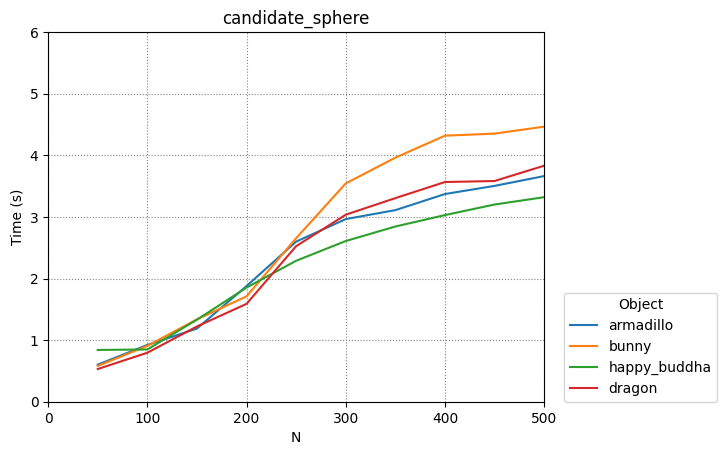
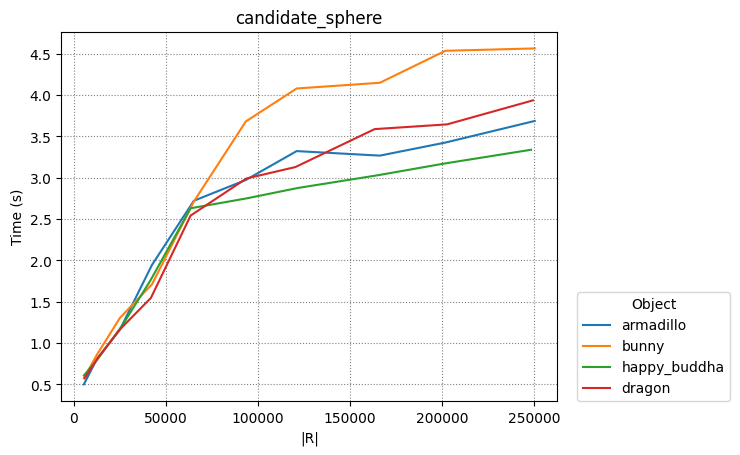
Use |R| as x-axis

diff --git a/analysis/time.py b/analysis/time.py
@@ -10,50 +10,54 @@ matplotlib.use('Agg')
 
 DIR_PATH = 'analysis/data/time'
 
-def compute_values(algorithm: type[Algorithm]) -> tuple[list[str], list[int], list[list[float]]]:
+def compute_values(algorithm: type[Algorithm]) -> tuple[list[str], list[list[int]], list[list[float]]]:
     times = []
+    R_values = []
 
     # Warm up
     algorithm.surface_reconstruction(OBJECT_NAMES[0], 100)
 
     for i in range(len(OBJECT_NAMES)):
         print(OBJECT_NAMES[i])
-        result = algorithm.time(OBJECT_NAMES[i], N_VALUES)
-        times.append(result)
+        t, R = algorithm.time(OBJECT_NAMES[i], N_VALUES)
+        times.append(t)
+        R_values.append(R)
 
-    return OBJECT_NAMES, N_VALUES, times
+    return OBJECT_NAMES, R_values, times
 
-def save_results(object_names: list[str], N_values: list[int], times: list[list[float]], algorithm: str) -> None:
+def save_results(object_names: list[str], R_values: list[list[int]], times: list[list[float]], algorithm: str) -> None:
     with open(f'{DIR_PATH}_{algorithm}.csv', mode='w', newline='') as file:
         writer = csv.writer(file)
 
         writer.writerow(object_names)
-        writer.writerow(N_values)
+        writer.writerow([len(R_values)])
+        
+        for entry in R_values:
+            writer.writerow(entry)
 
         for entry in times:
             writer.writerow(entry)
 
-def load_results(algorithm: str) -> tuple[list[str], list[int], list[list[float]]]:
+def load_results(algorithm: str) -> tuple[list[str], list[list[int]], list[list[float]]]:
     with open(f'{DIR_PATH}_{algorithm}.csv', mode='r') as file:
         reader = csv.reader(file)
         rows = list(reader)
 
         object_names = rows[0]
-        N_values = [int(value) for value in rows[1]]
-        times = [[float(value) for value in row] for row in rows[2:]]
+        length = int(rows[1][0])
+        R_values = [[int(value) for value in row] for row in rows[2:2+length]]
+        times = [[float(value) for value in row] for row in rows[2+length:]]
     
-    return object_names, N_values, times
+    return object_names, R_values, times
 
-def plot_results(object_names: list[str], N_values: list[int], times: list[list[float]], algorithm: str) -> None:
+def plot_results(object_names: list[str], R_values: list[list[int]], times: list[list[float]], algorithm: str) -> None:
     fig, ax = plt.subplots()
 
     for i, entry in enumerate(times):
-        ax.plot(N_values, entry, label=f'{object_names[i]}')
+        ax.plot(R_values[i], entry, label=f'{object_names[i]}')
     
     ax.set_ylabel('Time (s)')
-    ax.set_xlim([0, N_values[-1]])
-    ax.set_ylim([0, 6])
-    ax.set_xlabel('N')
+    ax.set_xlabel('|R|')
     ax.set_title(algorithm)
     ax.legend(loc=(1.04, 0), title='Object')
     plt.grid(linestyle='dotted', color='grey')

diff --git a/ray_field/candidate_sphere.py b/ray_field/candidate_sphere.py
@@ -111,22 +111,26 @@ class CandidateSphere(Algorithm):
 
         return distances
 
-    def time(model_name: CheckpointName, N_values: list[int]) -> list[float]:
+    def time(model_name: CheckpointName, N_values: list[int]) -> tuple[list[float], list[int]]:
         model, device = utils.init_model(model_name)
 
         times = np.zeros(len(N_values))
+        R_values = np.zeros(len(N_values))
 
         with torch.no_grad():
             for i in range(len(N_values)):
                 N = N_values[i]
                 print(N, end='\t')
 
-                for _ in range(CandidateSphere.time_samples):
+                for j in range(CandidateSphere.time_samples):
                     torch.cuda.synchronize()
                     start_time = timer()
 
                     origins, dirs = utils.generate_sphere_rays_tensor(CandidateSphere.prescan_n, device)
                     intersections, atom_indices = CandidateSphere._broad_scan(model, origins, dirs)
+
+                    if j == 0:
+                        R_values[i] = dirs.shape[0] * dirs.shape[2]
 
                     radii, centers = CandidateSphere._generate_candidate_spheres(intersections, atom_indices, device)
                     origins, dirs = CandidateSphere._generate_candidate_rays(radii, centers, N, device)
@@ -136,6 +140,9 @@ class CandidateSphere(Algorithm):
                     
                     torch.cuda.synchronize()
                     time = timer() - start_time
+
+                    if j == 0:
+                        R_values[i] = R_values[i] + (dirs.shape[0] * dirs.shape[2])
 
                     times[i] = times[i] + time
                     print(f'{time:.5f}', end='\t')
@@ -147,7 +154,9 @@ class CandidateSphere(Algorithm):
         del model
         torch.cuda.empty_cache()
 
-        return times / CandidateSphere.time_samples
+        times = times / CandidateSphere.time_samples
+
+        return times, R_values
 
     def time_steps(model_name: CheckpointName, N_values: list[int]) -> list[list[float]]:
         """Measure execution time of the surface reconstruction divided in

diff --git a/ray_field/prescan_cone.py b/ray_field/prescan_cone.py
@@ -109,22 +109,26 @@ class PrescanCone(Algorithm):
 
         return distances
 
-    def time(model_name: CheckpointName, N_values: list[int]) -> list[float]:
+    def time(model_name: CheckpointName, N_values: list[int]) -> tuple[list[float], list[int]]:
         model, device = utils.init_model(model_name)
 
         times = np.zeros(len(N_values))
+        R_values = np.zeros(len(N_values))
 
         with torch.no_grad():
             for i in range(len(N_values)):
                 N = N_values[i]
                 print(N, end='\t')
 
-                for _ in range(PrescanCone.time_samples):
+                for j in range(PrescanCone.time_samples):
                     torch.cuda.synchronize()
                     start_time = timer()
 
                     origins, dirs = utils.generate_sphere_rays_tensor(PrescanCone.prescan_n, device)
                     intersections = PrescanCone._broad_scan(model, origins, dirs)
+
+                    if j == 0:
+                        R_values[i] = dirs.shape[0] * dirs.shape[2]
 
                     origins, dirs = PrescanCone._generate_cone_rays(intersections, N, device)
                     intersections, intersection_normals = PrescanCone._targeted_scan(model, origins, dirs)
@@ -133,6 +137,9 @@ class PrescanCone(Algorithm):
 
                     torch.cuda.synchronize()
                     time = timer() - start_time
+
+                    if j == 0:
+                        R_values[i] = R_values[i] + (dirs.shape[0] * dirs.shape[2])
 
                     times[i] = times[i] + time
                     print(f'{time:.5f}', end='\t')
@@ -144,7 +151,9 @@ class PrescanCone(Algorithm):
         del model
         torch.cuda.empty_cache()
 
-        return times / PrescanCone.time_samples
+        times = times / PrescanCone.time_samples
+
+        return times, R_values
 
     def time_steps(model_name: CheckpointName, N_values: list[int]) -> list[list[float]]:
         """Measure execution time of the surface reconstruction divided in

diff --git a/ray_field/baseline_device.py b/ray_field/baseline_device.py
@@ -92,17 +92,18 @@ class BaselineDevice(Algorithm):
 
         return distances
 
-    def time(model_name: CheckpointName, N_values: list[int]) -> list[float]:
+    def time(model_name: CheckpointName, N_values: list[int]) -> tuple[list[float], list[int]]:
         model, device = utils.init_model(model_name)
 
         times = np.zeros(len(N_values))
+        R_values = np.zeros(len(N_values))
 
         with torch.no_grad():
             for i in range(len(N_values)):
                 N = N_values[i]
                 print(N, end='\t')
 
-                for _ in range(BaselineDevice.time_samples):
+                for j in range(BaselineDevice.time_samples):
                     torch.cuda.synchronize(device)
                     start_time = timer()
 
@@ -112,6 +113,9 @@ class BaselineDevice(Algorithm):
 
                     torch.cuda.synchronize(device)
                     time = timer() - start_time
+
+                    if j == 0:
+                        R_values[i] = dirs.shape[0] * dirs.shape[2]
 
                     times[i] = times[i] + time
                     print(f'{time:.5f}', end='\t')
@@ -123,7 +127,9 @@ class BaselineDevice(Algorithm):
         del model
         torch.cuda.empty_cache()
 
-        return times / BaselineDevice.time_samples
+        times = times / BaselineDevice.time_samples
+
+        return times, R_values
 
     def time_steps(model_name: CheckpointName, N_values: list[int]) -> list[list[float]]:
         """Measure execution time of the surface reconstruction divided in

diff --git a/ray_field/baseline.py b/ray_field/baseline.py
@@ -92,17 +92,18 @@ class Baseline(Algorithm):
 
         return distances
 
-    def time(model_name: CheckpointName, N_values: list[int]) -> list[float]:
+    def time(model_name: CheckpointName, N_values: list[int]) -> tuple[list[float], list[int]]:
         model, device = utils.init_model(model_name)
 
         times = np.zeros(len(N_values))
+        R_values = np.zeros(len(N_values))
 
         with torch.no_grad():
             for i in range(len(N_values)):
                 N = N_values[i]
                 print(N, end='\t')
 
-                for _ in range(Baseline.time_samples):
+                for j in range(Baseline.time_samples):
                     torch.cuda.synchronize()
                     start_time = timer()
 
@@ -112,6 +113,9 @@ class Baseline(Algorithm):
 
                     torch.cuda.synchronize()
                     time = timer() - start_time
+
+                    if j == 0:
+                        R_values[i] = dirs.shape[0] * dirs.shape[2]
 
                     times[i] = times[i] + time
                     print(f'{time:.5f}', end='\t')
@@ -123,7 +127,9 @@ class Baseline(Algorithm):
         del model
         torch.cuda.empty_cache()
 
-        return times / Baseline.time_samples
+        times = times / Baseline.time_samples
+
+        return times, R_values
 
     def time_steps(model_name: CheckpointName, N_values: list[int]) -> list[list[float]]:
         """Measure execution time of the surface reconstruction divided in

diff --git a/ray_field/algorithm.py b/ray_field/algorithm.py
@@ -68,15 +68,17 @@ class Algorithm(ABC):
 
     @staticmethod
     @abstractmethod
-    def time(model_name: CheckpointName, N_values: list[int]) -> list[float]:
+    def time(model_name: CheckpointName, N_values: list[int]) -> tuple[list[float], list[int]]:
         """Measure exectution time of the surface reconstruction.
 
         Args:
             model_name (CheckpointName): Valid model name
-            N_values (list[int]): N-values to test
+            N_values (list[int]): N-values to test 
 
         Returns:
-            list[float]: Execution times corresponding to the list of N-values.
+            tuple[list[float], list[int]]
+                - Execution times
+                - Number of rays 
         """        
         pass
 
